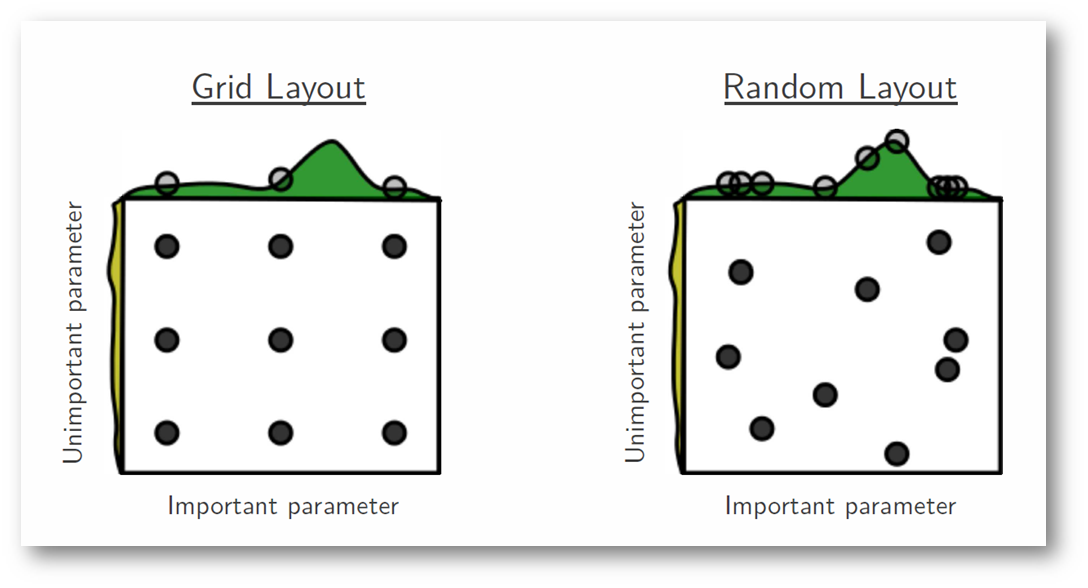
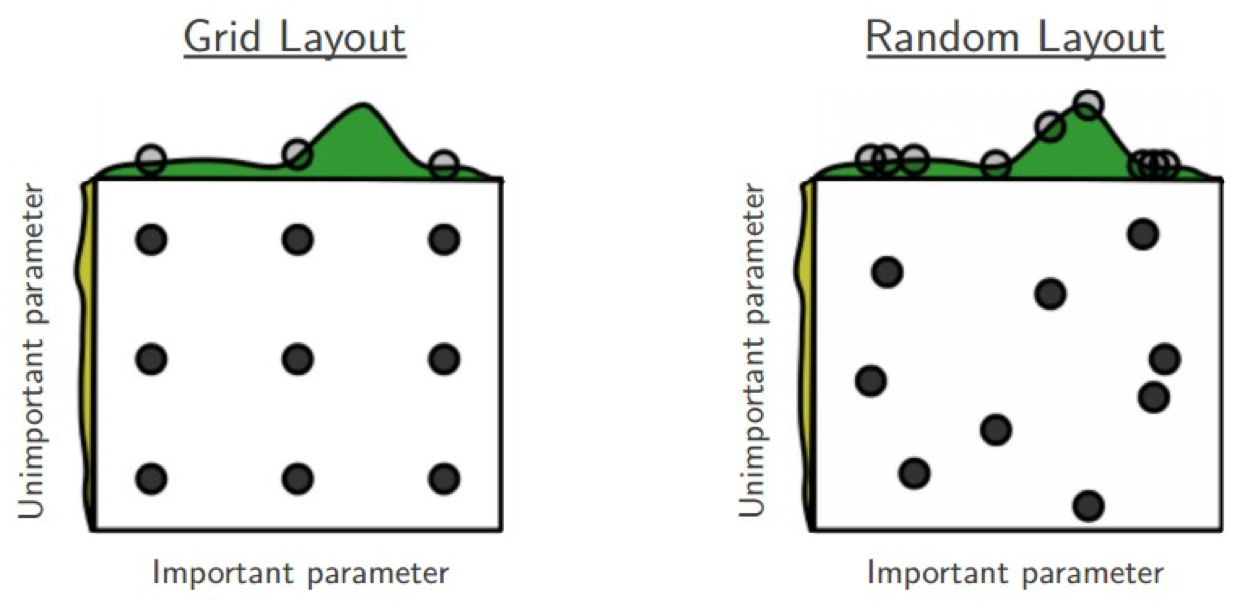
add slides for grid and random search

diff --git a/08_03_2015_hyperparams/presentation/index.html b/08_03_2015_hyperparams/presentation/index.html
@@ -35,7 +35,10 @@
         background: none  !important;
         box-shadow: none  !important;
       }
-    </style> 
+    </style>
+    <script type="text/javascript"
+      src="https://cdn.mathjax.org/mathjax/latest/MathJax.js?config=TeX-AMS-MML_HTMLorMML">
+    </script>
   </head>
 
 	<body>
@@ -55,16 +58,244 @@
           
         <section>
           <img class="min-style-svg" width="200" height="200" data-src="img/stopwatch.svg" alt="stopwatch">
-        <h2 style="margin-top:-40px;">Agenda</h2>
+          <h2 style="margin-top:-40px;">Agenda</h2>
           <ul>
             <li>What are hyper-parameters?</li>
             <li>Grid search</li>
             <li>Random search</li>
-            <li>Other tuning methods</li>
+            <li>Other tuning methodologies</li>
             <li>iPython notebook demo</li>
           </ul>
 				</section>
-        
+
+        <section>
+          <section>
+            <h2>Motivation</h2>
+            <ul>
+              <li>How can we make machine learning more accessible?</li> 
+            </ul>
+          </section>
+
+          <section>
+            <h2>What are hyper-parameters?</h2>
+            <blockquote style="width:100%; box-shadow:none;" cite="http://scikit-learn.org/stable/modules/generated/sklearn.neighbors.KNeighborsClassifier.html">
+              sklearn.neighbors.KNeighborsClassifier(
+              <span style="font-weight:bold;">n_neighbors=5, weights='uniform', algorithm='auto', leaf_size=30, p=2, metric='minkowski', metric_params=None, **kwargs</span>)
+            </blockquote>
+            <ul>
+              <li>High level settings pertaining to a machine learning model that govern how a model performs</li> 
+              <li>Must be specified before the training procedure</li>
+            </ul>
+          </section>
+
+          <section>
+            <h2>Difference in Model Parameters</h2>
+              <table style="font-size:28px;">
+                <thead>
+                  <tr>
+                    <th>Model</th>
+                    <th>Number of Parameters</th>
+                  </tr>
+                </thead>
+                <tbody>
+                  <tr>
+                    <td>Multinomial Naive Bayes</td>
+                    <td>3</td>
+                  </tr>
+                  <tr>
+                    <td>Linear Regression</td>
+                    <td>4</td>
+                  </tr>
+                  <tr>
+                    <td>Linear Discriminant Analysis</td>
+                    <td>6</td>
+                  </tr>
+                  <tr>
+                    <td>K-Nearest Neighbors</td>
+                    <td>7</td>
+                  </tr>
+                  <tr>
+                    <td>Decision Tree</td>
+                    <td>10</td>
+                  </tr>
+                  <tr>
+                    <td>Logistic Regression</td>
+                    <td>12</td>
+                  </tr>
+                  <tr>
+                    <td>Support Vector Machine</td>
+                    <td>13</td>
+                  </tr>
+                  <tr>
+                    <td>Random Forest</td>
+                    <td>15</td>
+                  </tr>
+                  <tr>
+                    <td>Neural Network</td>
+                    <td>30+</td>
+                  </tr>
+                </tbody>
+              </table>
+          </section>
+
+          <section>
+            <h2>Which Parameters to Tune?</h2>
+            <div>
+              <img width="400" style="border:none;" data-src="img/so_many_choices.jpg" alt="too many choices">
+            </div>
+            <ul style="font-size:26px;">
+              <li>4 parameters with 6 possible values each means \(6^4\) = 1,296 combinations</li>
+              <li>What's the correct range and distribution for numerical parameters?</li>
+              <li>Finding the right parameter values could be the difference between random guessing and state-of-the-art performance.</li>
+            </ul>
+          </section>
+
+          <section>
+            <h2>How to Tune Model Parameters?</h2>
+            <div>
+              <img width="400" style="border:none;" data-src="img/witch_of_oz.jpg" alt="the witch of oz">
+            </div>
+            <ul style="font-size:26px;" class="fragment">
+              <li>Expert intuition</li> 
+              <li>Grid search</li> 
+              <li>Random search</li>
+              <li class="fragment">Intern search
+                <img width="400" style="border:none; position:fixed; top:130px; left:220px; width:510px;" data-src="img/interns.png" alt="interns">
+              </li>
+            </ul>
+          </section>
+        </section>
+
+        <section>
+          <section>
+            <h2>Grid Search</h2>
+            <div>
+              <img width="400" style="border:none;" data-src="img/grid_search.png" alt="grid search">
+            </div>
+            <p style="font-size:26px;">
+              The traditional way of performing hyperparameter optimization has been grid search, which is simply an exhaustive searching through a manually specified subset of the hyperparameter space of a learning algorithm.
+            </p>
+          </section>
+
+          <section>
+            <h2>Grid Search Pros and Cons</h2>
+            <div style="text-align:left; font-size:28px;" class="fragment">
+              <span style="font-style:italic;">Pros:</span>
+              <br>
+              <ol style="margin-left:60px;">
+                <li>Simple to understand</li>
+                <li>Easy to implement</li>
+                <li>Embarrassingly parallel</li>
+                <li>Unlikely to miss anything too obvious</li>
+              </ol>
+              <br><br>
+              <span style="font-style:italic;">Cons:</span>
+              <br>
+              <ol style="margin-left:60px;">
+                <li>Fixed step size</li>
+                <li>Suffers from the curse of dimensionality</li>
+                <li>If irrelevant parameters or range values, the number of wasted trials is exponential in the number of search dimensions that turn out to be irrelevant.</li>
+              </ol>
+            </div>
+          </section>
+        </section>
+
+        <section>
+          <section>
+            <h2>Random Search</h2>
+            <div>
+              <img width="400" style="border:none;" data-src="img/random_search.png" alt="random search">
+            </div>
+            <ul style="font-size:26px;">
+              <li>Instead of searching over the entire grid, random search only evaluates a random sample of points on the grid.</li>
+              <li>Instead of defining a finite set of parameter values to try, we specify the distribution range and the number of trials to run.</li>
+            </ul>
+          </section>
+
+          <section>
+            <h2>Random Search</h2>
+            <div style="margin: 0 20%;">
+              <img width="300" style="border:none; float:left; margin:0 20px 0 0;" data-src="img/sumo_underdog.png" alt="sumo underdog">
+              <p style="font-size:26px; text-align:left;">
+                Not taken seriously because it can't possibly compete against an exhaustive grid search.
+                <span class="fragment" style="font-weight:bold;">Or can it?</span>
+              </p>
+            </div>
+          </section>
+
+          <section>
+            <h2>Bergstra and Bengio</h2>
+            <div>
+              <img height="250" style="border:none;" data-src="img/bergstra.jpeg" alt="James Bergstra">
+              <img height="250" style="border:none;" data-src="img/bengio.jpeg" alt="Yoshua Bengio">
+            </div>
+            <ul style="font-size:26px;">
+              <li>
+                James Bergstra and Yoshua Bengio, from the University of Montreal, publishes
+                <a href="http://www.jmlr.org/papers/volume13/bergstra12a/bergstra12a.pdf" target="_blank">
+                  "Random Search for Hyper-Parameter Optimization"
+                </a>in 2012.
+              </li>
+              <li>
+                In surprisingly many instances, random search performs about as well as grid search in a fraction of the trials. 
+              </li>
+              <li>
+                Even with a million unique parameter combinations, trying only
+                <span style="font-weight:bold;">60</span>
+                random points from the grid will achieve near optimal results. WAT!?! 
+              </li>
+            </ul>
+          </section>
+
+          <section>
+            <h2>Low Effective Dimensionality</h2>
+            <div style="margin:40px 0;">
+              $$f(x,y) = g(x) + h(y) \approx g(x)$$
+            </div>
+            <ul>
+              <li>
+                If a function of two variables \(f(x,y)\) could be approximated by another function of one variable \(g(x)\), we could say that \(f\) has a low effective dimension.
+              </li>
+              <li>
+                In plain english: 
+                <span style="font-style:italic;">Some parameters will affect a model's performance more than others.</span>
+              </li>
+            </ul>
+          </section>
+
+          <section>
+            <h2>Low Effective Dimensionality</h2>
+            <div>
+              <img width="700" style="border:none;" data-src="img/grid_vs_rand.png" alt="grid vs random search">
+            </div>
+            <ul>
+              <li>\(f(x,y) = g(x) + h(y) \approx g(x)\)</li>
+              <li>With grid search, 9 trials only test \(g(x)\) in 3 distinct places.</li>
+              <li>With random search, all 9 trials explore distinct values of \(g\).</li>
+            </ul>
+          </section>
+          
+          <section>
+            <h2>Random Search Pros and Cons</h2>
+            <div style="text-align:left; font-size:28px;">
+              <span style="font-style:italic;">Pros:</span>
+              <br>
+              <ol style="margin-left:60px;">
+                <li>Easy to implement</li>
+                <li>Embarrassingly parallel</li>
+                <li>Obtains equal or better results than grid search using fewer trials in high-dimensional search spaces</li>
+              </ol>
+              <br><br>
+              <span style="font-style:italic;">Cons:</span>
+              <br>
+              <ol style="margin-left:60px;">
+                <li>No guarantee the space will be explored adequately in low-dimensional searches</li>
+                <li>Might waste computation evaluating points that are very close together</li>
+              </ol>
+            </div>
+          </section>
+        </section>
+
         <section>
           <img class="min-style-svg" width="200" height="200" data-src="img/bulb.svg" alt="lightbulb">
           <h2>Resources</h2>
@@ -119,6 +350,6 @@
 					{ src: 'plugin/notes/notes.js', async: true }
 				]
 			});
-		</script>
+    </script>
 	</body>
 </html>
